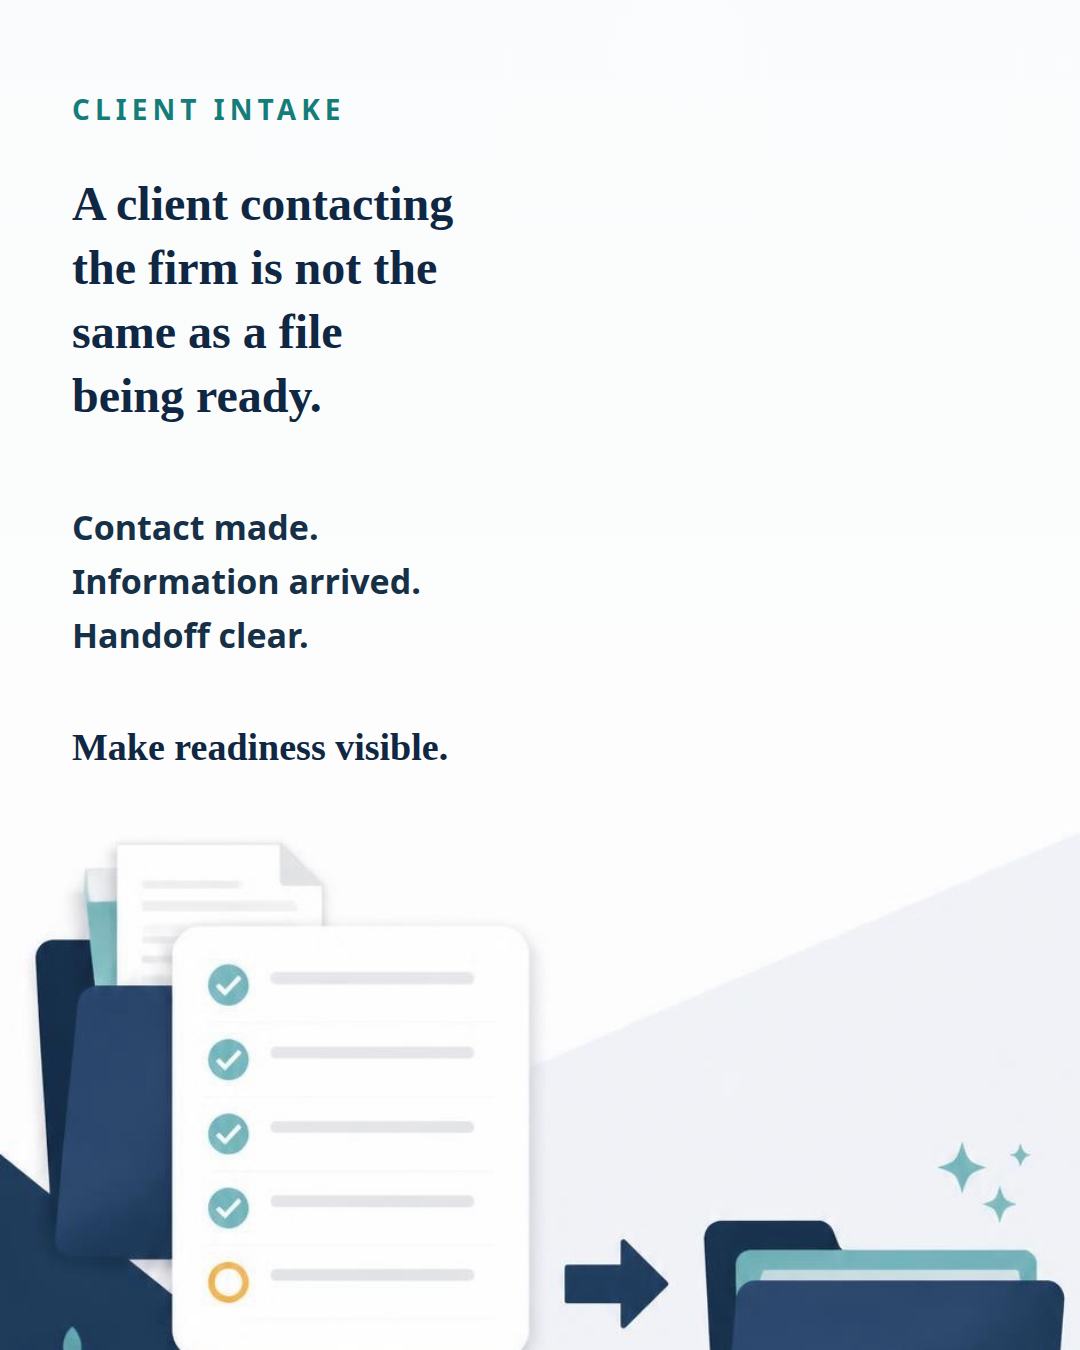
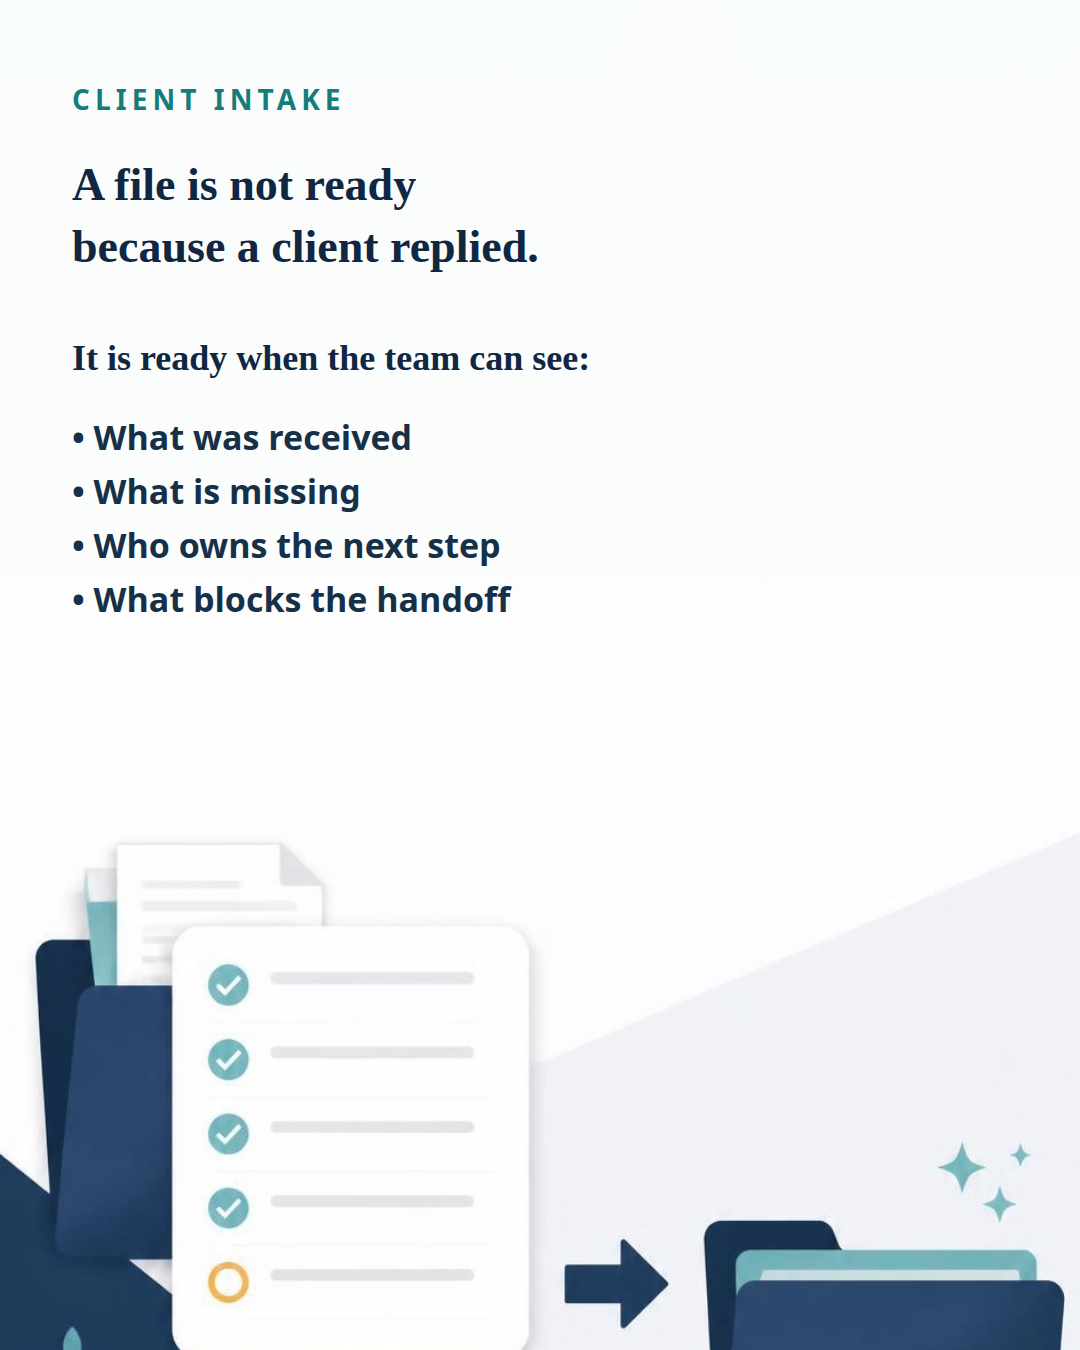
content(marketing): update Article 2 LinkedIn graphic copy
Use the provided file-ready visibility text on the SVG overlay and
regenerate the PNG export.

Changed region(s): [[0.0611, 0.1244, 0.55, 0.4978], [0.0611, 0.5289, 0.3972, 0.56], [0.0611, 0.0622, 0.3361, 0.0933]]

diff --git a/insights/assets/file-ready-linkedin-graphic/index.html b/insights/assets/file-ready-linkedin-graphic/index.html
@@ -62,7 +62,7 @@
         src="./client-intake-file-ready-linkedin.png"
         width="1080"
         height="1350"
-        alt="Graphic for Client Intake stating: A client contacting the firm is not the same as a file being ready. The image highlights contact made, information arrived, and a clear handoff as steps that make readiness visible."
+        alt="Graphic for Client Intake stating: A file is not ready because a client replied. It is ready when the team can see what was received, what is missing, who owns the next step, and what blocks the handoff."
       >
       <ul class="asset-links">
         <li>

diff --git a/docs/linkedin-image-6-upload-notes.md b/docs/linkedin-image-6-upload-notes.md
@@ -28,7 +28,7 @@ in the top area so the artwork remains visible.
 
 ## Recommended LinkedIn alt text
 
-Graphic for Client Intake stating: “A client contacting the firm is not the same as a file being ready.” The image highlights contact made, information arrived, and a clear handoff as steps that make readiness visible.
+Graphic for Client Intake stating: “A file is not ready because a client replied. It is ready when the team can see what was received, what is missing, who owns the next step, and what blocks the handoff.”
 
 ## Recommended post copy
 
